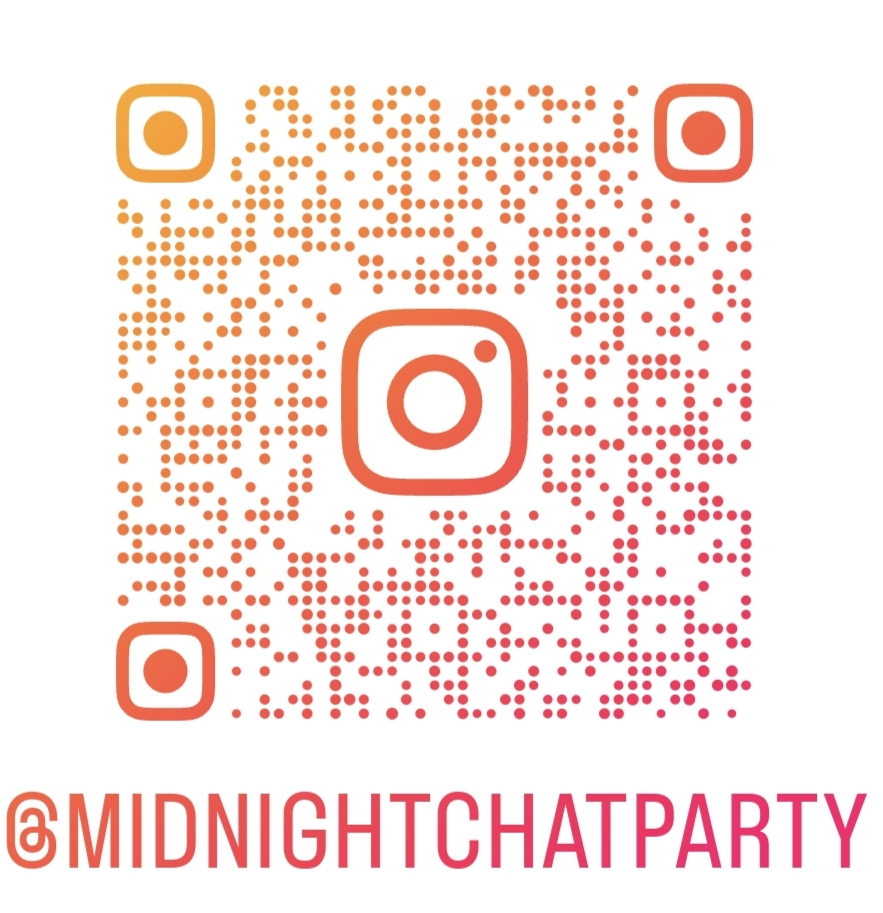
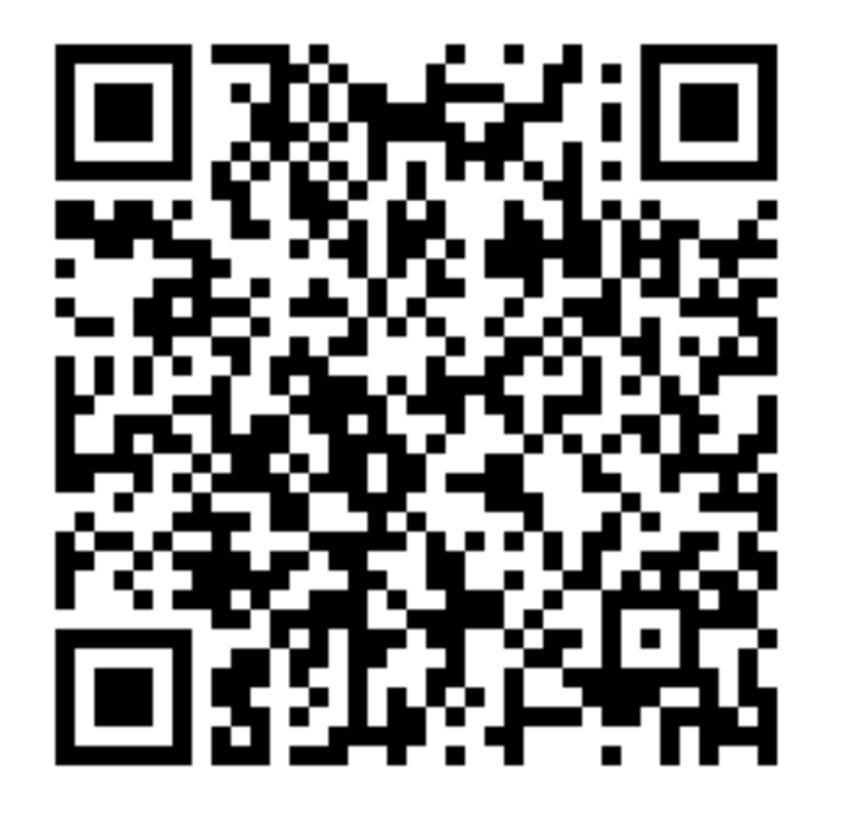
インスタQRを白黒版に差替、文言を「SNSフォローで」に変更、右上表記を修正
- qr-instagram.jpg: 白黒QR（instagram.com/midnightchatparty、読取性向上）
- 価格行のアイコン列を削除し「SNSフォローで 2枚 ¥300」に（アイコンはQR下のみ）
- ヘッダ右上を「Midnight Chat Party」表記に

diff --git a/flyer/index.html b/flyer/index.html
@@ -110,20 +110,10 @@
     align-items:baseline;
     gap:1vw;
   }
-  .deal .icons{ align-self:center; }
   .deal .label,
   .deal .count,
   .deal .yen{
     white-space:nowrap;
-  }
-  .deal .icons{
-    display:flex;
-    align-items:center;
-    gap:1vw;
-  }
-  .deal .icons svg{
-    width:4.2vh; height:4.2vh;
-    display:block;
   }
   .deal .count{
     font-size:3vh;
@@ -177,7 +167,7 @@
 
 <header>
   <h1>STICKERS</h1>
-  <div class="band">MIDNIGHT CHAT PARTY</div>
+  <div class="band">Midnight Chat Party</div>
 </header>
 
 <main>
@@ -200,19 +190,7 @@
   </div>
   <div class="price follow">
     <div class="deal">
-      <span class="icons">
-        <!-- Instagram -->
-        <svg viewBox="0 0 24 24" fill="none" stroke="currentColor" stroke-width="2" aria-label="Instagram">
-          <rect x="2.5" y="2.5" width="19" height="19" rx="5"/>
-          <circle cx="12" cy="12" r="4.4"/>
-          <circle cx="17.4" cy="6.6" r="1.3" fill="currentColor" stroke="none"/>
-        </svg>
-        <!-- X -->
-        <svg viewBox="0 0 24 24" fill="currentColor" aria-label="X">
-          <path d="M18.244 2.25h3.308l-7.227 8.26 8.502 11.24H16.17l-5.214-6.817L4.99 21.75H1.68l7.73-8.835L1.254 2.25H8.08l4.713 6.231zm-1.161 17.52h1.833L7.084 4.126H5.117z"/>
-        </svg>
-      </span>
-      <span class="label">フォローで</span>
+      <span class="label">SNSフォローで</span>
       <span class="count">2枚</span>
       <span class="yen">¥300</span>
     </div>
